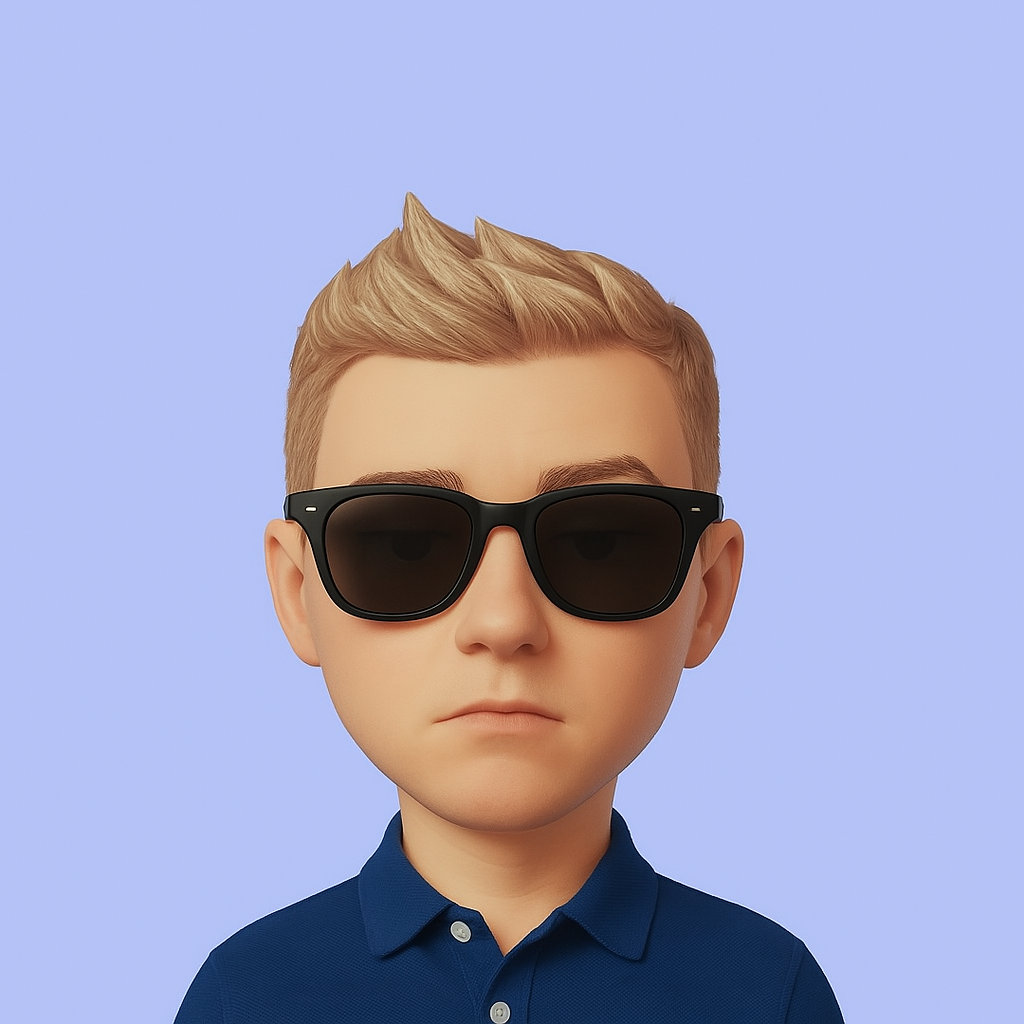
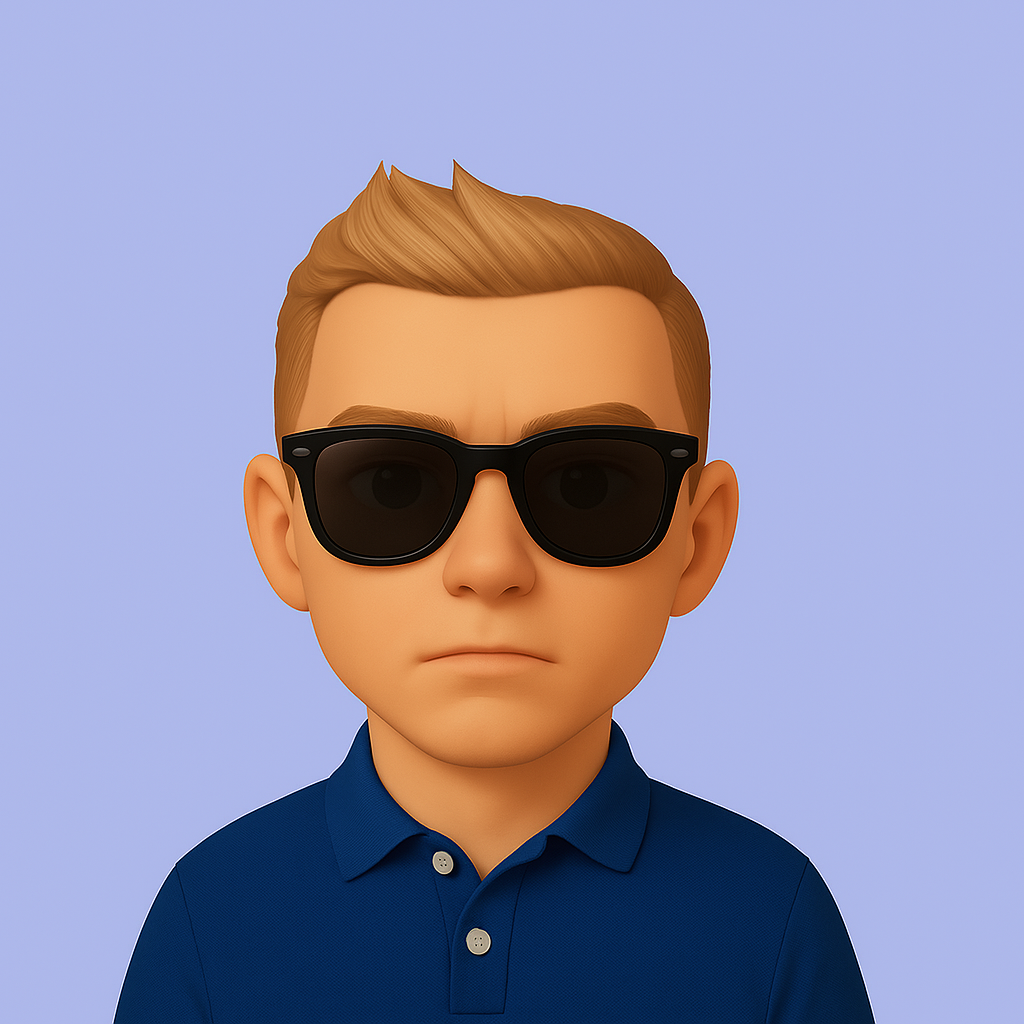
Alteração de Imagem-2

Changed region(s): [[0.0938, 0.1562, 0.875, 1.0], [0.75, 0.9688, 0.7812, 1.0]]

diff --git a/index.html b/index.html
@@ -15,7 +15,7 @@
   <body>
     <div id="container">
       <div id="profile">
-        <img src="./assets/Rafa.png" />
+        <img src="./assets/Rafa.light.png" />
         <p>@rafinha</p>
       </div>
 
